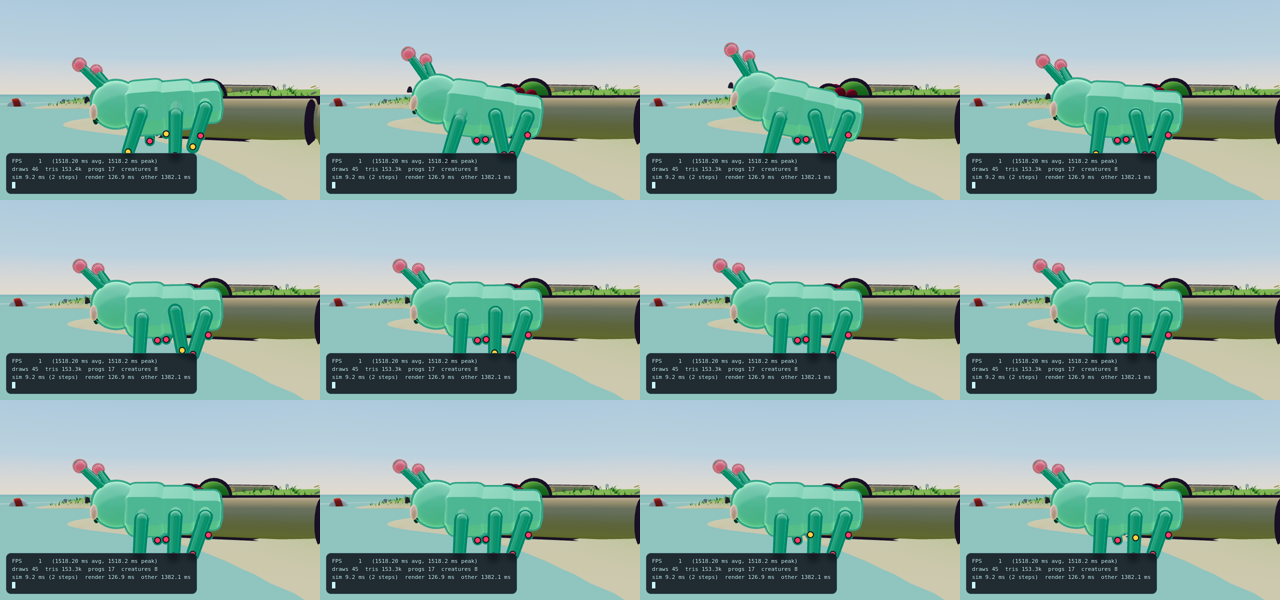
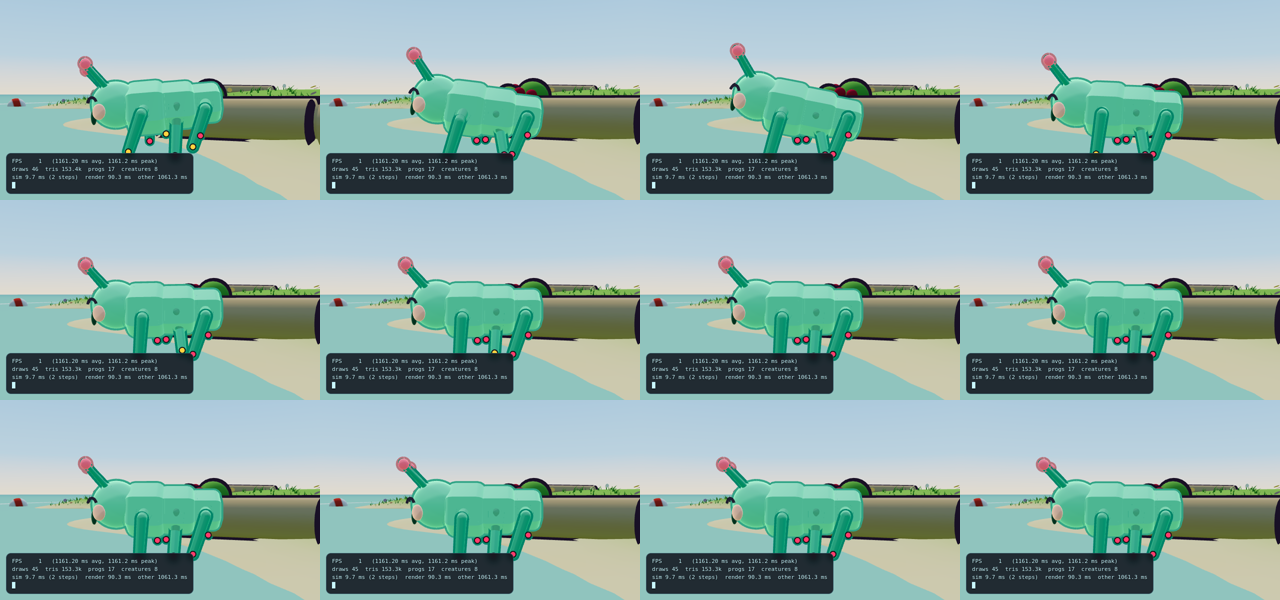
watch: 2026-10-02 09:28:39

diff --git a/watch/REPORT.md b/watch/REPORT.md
@@ -1,51 +1,67 @@
 ```
 # WATCH REPORT
-date 2026-10-02T05:21:00.158Z
-badge build v13 · 2026-10-02 09:19
+date 2026-10-02T05:27:36.301Z
+badge build v14 · 2026-10-02 09:26
 
 ## PEDESTAL
   quat 8.88e-16 pos 0.00e+0 -> PASS
 
 ## STRAIGHT WALK PROBE (8 s each)
-  PIP    slip 3.57 cm | overstretch 5/480 | speed 0.873 | freq 3 Hz
-  MOCHI  slip 8.54 cm | overstretch 46/480 | speed 0.875 | freq 3 Hz
+  PIP    slip 3.23 cm | overstretch 5/480 | speed 0.873 | freq 3 Hz
+  MOCHI  slip 7.98 cm | overstretch 48/480 | speed 0.875 | freq 3 Hz
   BOP    slip 0.00 cm | overstretch 0/480 | speed 2.762 | freq 2.5 Hz
-  ZIK    slip 1.17 cm | overstretch 1/480 | speed 1.128 | freq 3 Hz
+  ZIK    slip 0.18 cm | overstretch 1/480 | speed 1.128 | freq 3 Hz
 
 ## JOINT PROBE (20 s)
-  PIP    40.00 rad/s on knee_r [FORCED STEP]
-  MOCHI  40.00 rad/s on knee_fr [FORCED STEP]
-  ZIK    40.00 rad/s on knee_front_r [FORCED STEP]
+  PIP    185.20 rad/s on hip_r [FORCED STEP]
+  MOCHI  187.12 rad/s on hip_bl [FORCED STEP]
+  ZIK    186.94 rad/s on hip_rear_l [FORCED STEP]
 
 ## FREE-RUNNING WORLD (30 s, all creatures, real behaviour)
   creatures 8 | overlap frames 0/900 | closest pair 1.20x personal space
-  PIP    lifts: beat 83 reach 41 strain 143 catch-up 33 | max planted IK miss 32.94 cm | crouch 12.7 cm
-  MOCHI  lifts: beat 25 reach 42 strain 201 catch-up 102 | max planted IK miss 28.08 cm | crouch 4.0 cm
+  PIP    lifts: beat 79 reach 34 strain 92 catch-up 38 | max planted IK miss 10.27 cm | crouch 4.6 cm
+  MOCHI  lifts: beat 22 reach 41 strain 84 catch-up 92 | max planted IK miss 5.94 cm | crouch 4.1 cm
   BOP    lifts: beat 0 reach 0 strain 0 catch-up 0 | max planted IK miss 0.00 cm | crouch 0.0 cm
-  ZIK    lifts: beat 225 reach 71 strain 176 catch-up 87 | max planted IK miss 3.85 cm | crouch 3.6 cm
-  PIP    stances 300 | slip avg 1.05 cm worst 18.17 cm | stances >1cm 87 | max joint 83.8 rad/s on body | frames >20 rad/s 101 | moving 50%
-  MOCHI  stances 370 | slip avg 1.27 cm worst 20.74 cm | stances >1cm 117 | max joint 40.0 rad/s on ankle_fl | frames >20 rad/s 80 | moving 18%
-  BOP    stances 0 | slip avg 0.00 cm worst 0.00 cm | stances >1cm 0 | max joint 12.4 rad/s on head | frames >20 rad/s 0 | moving 45%
-  ZIK    stances 559 | slip avg 0.31 cm worst 5.77 cm | stances >1cm 23 | max joint 40.0 rad/s on knee_mid_r | frames >20 rad/s 34 | moving 40%
+  ZIK    lifts: beat 226 reach 63 strain 157 catch-up 86 | max planted IK miss 5.94 cm | crouch 1.4 cm
+
+## SLIP FORENSICS (stances that slid > 1 cm)
+  PIP    n 70 | in action 100% | one-frame pop 100% | ended by forced lift 100% | max hip-foot/reach 0.96 | max IK miss 10.3 cm | max post-limiter miss 10.3 cm
+  MOCHI  n 61 | in action 100% | one-frame pop 92% | ended by forced lift 97% | max hip-foot/reach 0.94 | max IK miss 5.9 cm | max post-limiter miss 5.9 cm
+  ZIK    n 30 | in action 97% | one-frame pop 100% | ended by forced lift 97% | max hip-foot/reach 0.98 | max IK miss 5.9 cm | max post-limiter miss 14.1 cm
+    ZIK leg 5: slip 21.6 jump 21.5 cm | reach 0.91 | IK 0.8 post 0.8 cm | ACTION | beat
+    ZIK leg 3: slip 14.0 jump 14.6 cm | reach 0.95 | IK 5.9 post 14.1 cm | ACTION | forced
+    ZIK leg 0: slip 12.2 jump 11.8 cm | reach 0.86 | IK 0.6 post 0.6 cm | ACTION | forced
+    PIP leg 1: slip 10.1 jump 10.1 cm | reach 0.91 | IK 10.3 post 10.3 cm | ACTION | forced
+    ZIK leg 3: slip 9.9 jump 9.9 cm | reach 0.79 | IK 5.6 post 9.9 cm | ACTION | forced
+    ZIK leg 5: slip 8.7 jump 8.7 cm | reach 0.72 | IK 0.2 post 0.2 cm | ACTION | forced
+    PIP leg 0: slip 8.3 jump 8.1 cm | reach 0.79 | IK 8.7 post 8.7 cm | ACTION | forced
+    PIP leg 0: slip 8.3 jump 8.1 cm | reach 0.79 | IK 8.7 post 8.7 cm | ACTION | forced
+  PIP    LEG joint max 62.6 rad/s on hip_l(plant) | leg frames >20: 110
+  MOCHI  LEG joint max 93.6 rad/s on hip_br(plant) | leg frames >20: 170
+  ZIK    LEG joint max 87.4 rad/s on hip_mid_l(plant) | leg frames >20: 169
+  PIP    stances 291 | slip avg 0.72 cm worst 10.09 cm | stances >1cm 70 | max joint 90.8 rad/s on body | frames >20 rad/s 103 | moving 48%
+  MOCHI  stances 348 | slip avg 0.47 cm worst 7.82 cm | stances >1cm 61 | max joint 94.2 rad/s on hip_br | frames >20 rad/s 91 | moving 18%
+  BOP    stances 0 | slip avg 0.00 cm worst 0.00 cm | stances >1cm 0 | max joint 13.5 rad/s on head | frames >20 rad/s 0 | moving 41%
+  ZIK    stances 659 | slip avg 0.35 cm worst 21.62 cm | stances >1cm 30 | max joint 93.6 rad/s on hip_rear_r | frames >20 rad/s 63 | moving 40%
 
 ## VERDICT
-  PIP    feet SLIDE (worst 18.2 cm, 29% of steps) | knees SNAP (84 rad/s)
-  MOCHI  feet SLIDE (worst 20.7 cm, 32% of steps) | knees SNAP (40 rad/s)
+  PIP    feet SLIDE (worst 10.1 cm, 24% of steps) | knees SNAP (185 rad/s)
+  MOCHI  feet SLIDE (worst 7.8 cm, 18% of steps) | knees SNAP (187 rad/s)
   BOP    feet no steps seen | knees OK
-  ZIK    feet SLIDE (worst 5.8 cm, 4% of steps) | knees SNAP (40 rad/s)
+  ZIK    feet SLIDE (worst 21.6 cm, 5% of steps) | knees SNAP (187 rad/s)
   overlap NONE
   console errors 0
 
 ## GATES
-  FAIL  PIP worst slip <= 2 cm         18.17 cm
-  FAIL  PIP steps >1 cm <= 2%          29.0%
-  FAIL  PIP joint <= 20 rad/s          83.8 on body
-  FAIL  MOCHI worst slip <= 2 cm       20.74 cm
-  FAIL  MOCHI steps >1 cm <= 2%        31.6%
-  FAIL  MOCHI joint <= 20 rad/s        40.0 on ankle_fl
-  FAIL  ZIK worst slip <= 2 cm         5.77 cm
-  FAIL  ZIK steps >1 cm <= 2%          4.1%
-  FAIL  ZIK joint <= 20 rad/s          40.0 on knee_mid_r
+  FAIL  PIP worst slip <= 2 cm         10.09 cm
+  FAIL  PIP steps >1 cm <= 2%          24.1%
+  FAIL  PIP leg joint <= 20 rad/s      62.6 on hip_l(plant)
+  FAIL  MOCHI worst slip <= 2 cm       7.82 cm
+  FAIL  MOCHI steps >1 cm <= 2%        17.5%
+  FAIL  MOCHI leg joint <= 20 rad/s    93.6 on hip_br(plant)
+  FAIL  ZIK worst slip <= 2 cm         21.62 cm
+  FAIL  ZIK steps >1 cm <= 2%          4.6%
+  FAIL  ZIK leg joint <= 20 rad/s      87.4 on hip_mid_l(plant)
   PASS  overlap frames = 0             0
   PASS  console errors = 0             0
 ```
